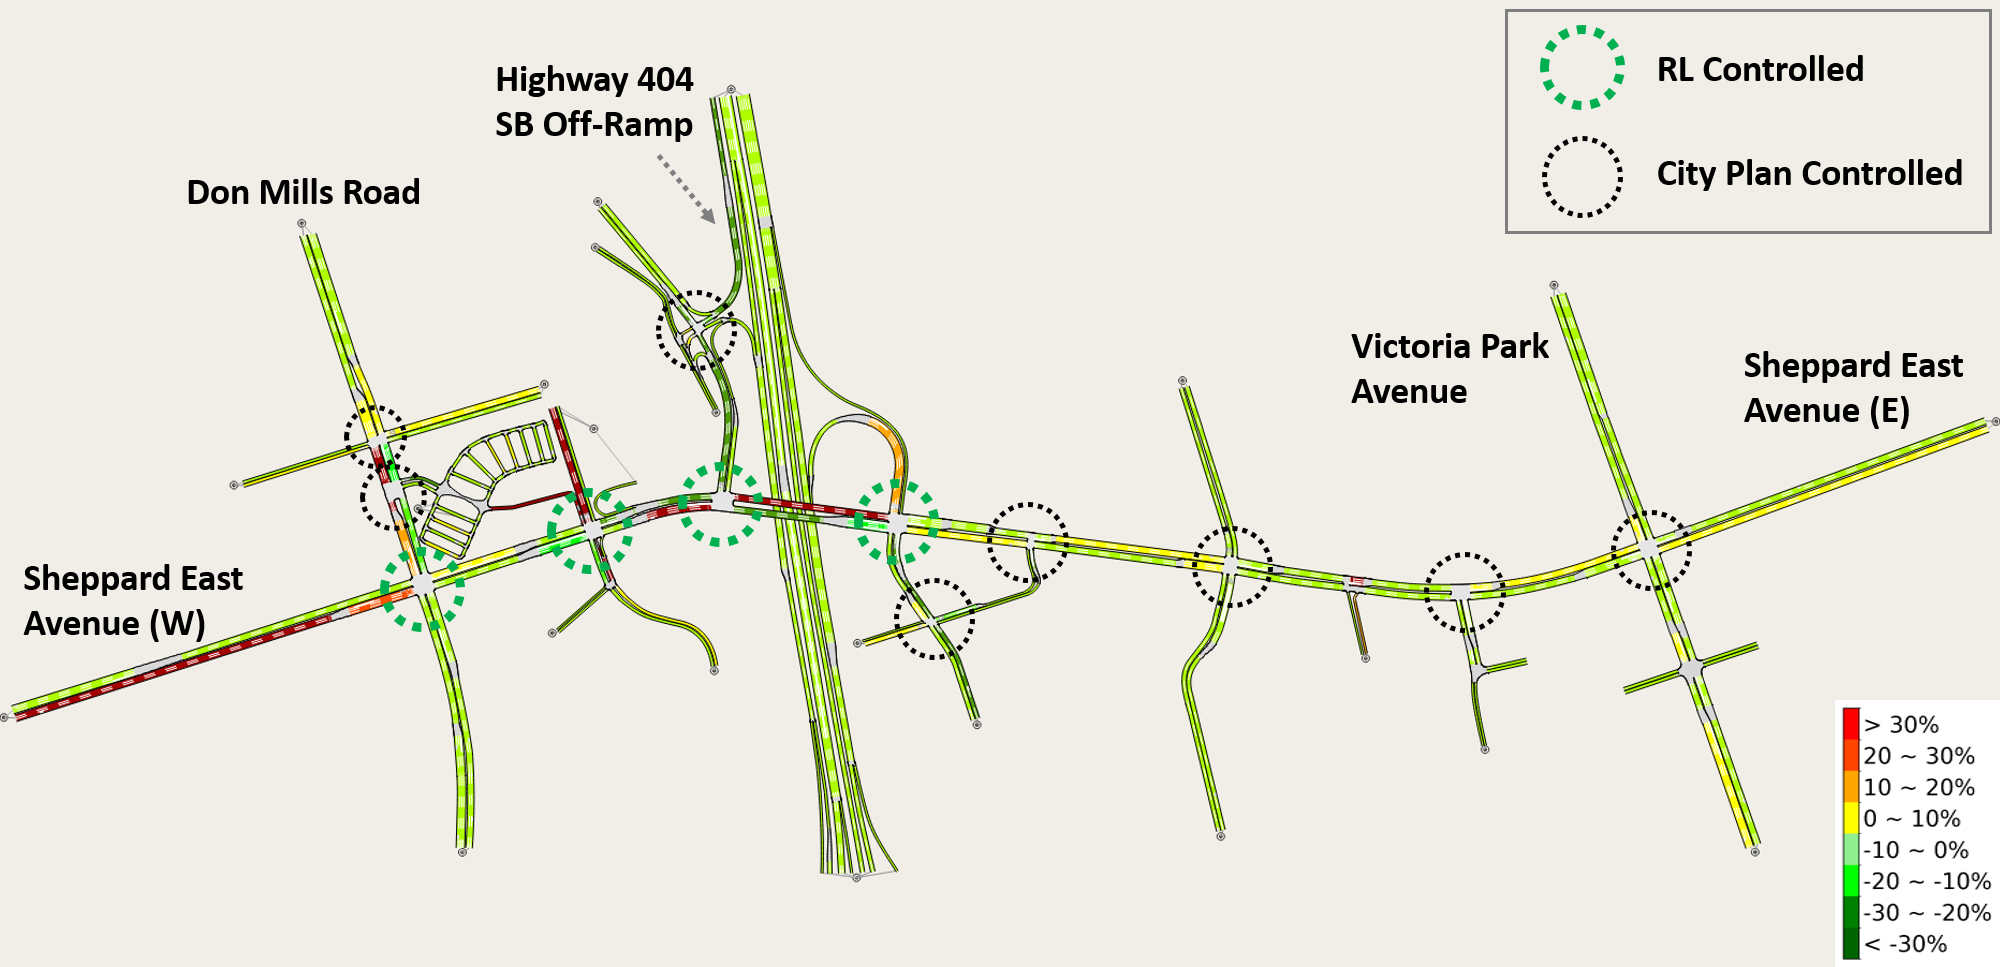
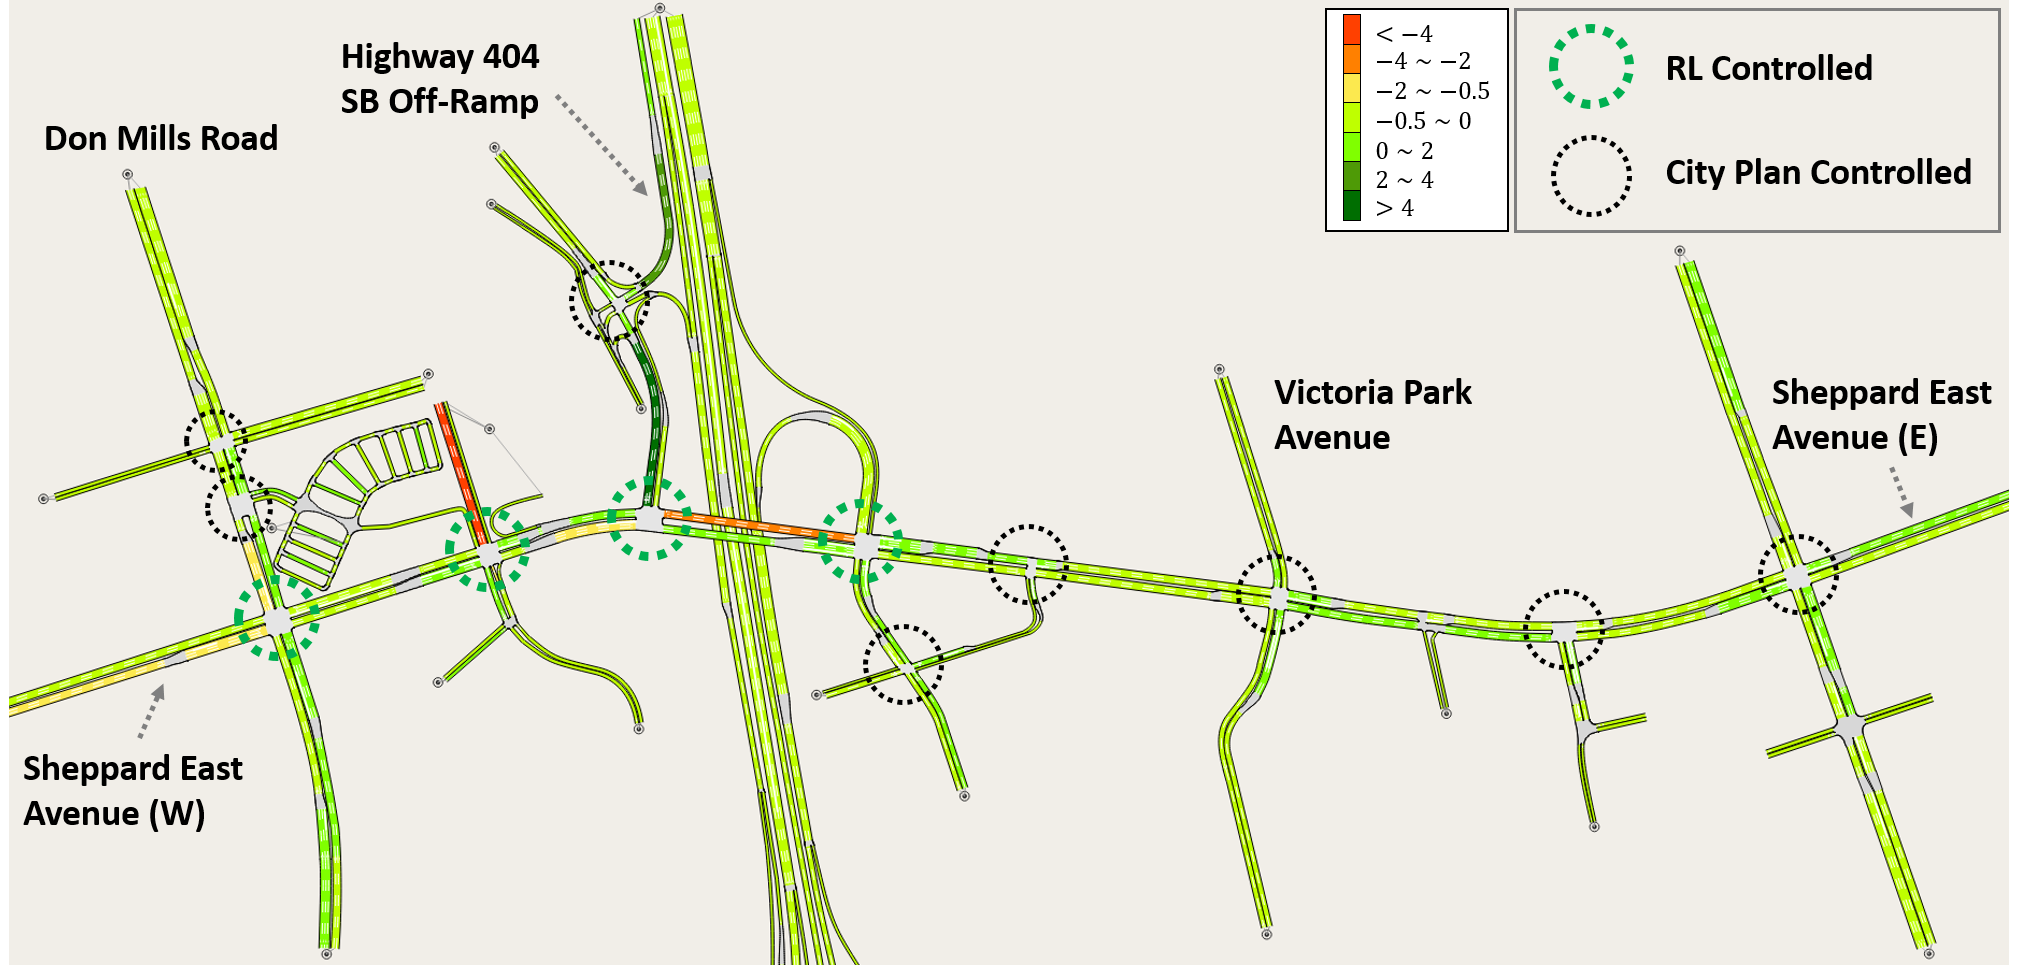
update projects description; support video; replace Toronto network figure.

diff --git a/_includes/projects.md b/_includes/projects.md
@@ -18,6 +18,14 @@
       </div>
     <div class="description" style="text-align: justify; text-indent: 0px;"><strong>Description:</strong> {{ link.description }}</div>
     <div class="keywords"><strong>Keywords:</strong> {{ link.keywords }}</div>
+
+    {% if link.video %}
+      <p>Video URL: {{ link.video }}</p>
+      <div class="video">
+        <iframe width="560" height="315" src="{{ link.video }}" title="YouTube video player" frameborder="1" allow="accelerometer; autoplay; clipboard-write; encrypted-media; gyroscope; picture-in-picture; web-share" referrerpolicy="strict-origin-when-cross-origin" allowfullscreen></iframe>
+      </div>
+    {% endif %}
+
     <div class="links">
       {% if link.pdf %} 
       <a href="{{ link.pdf }}" class="btn btn-sm z-depth-0" role="button" target="_blank" style="font-size:12px;">PDF</a>
